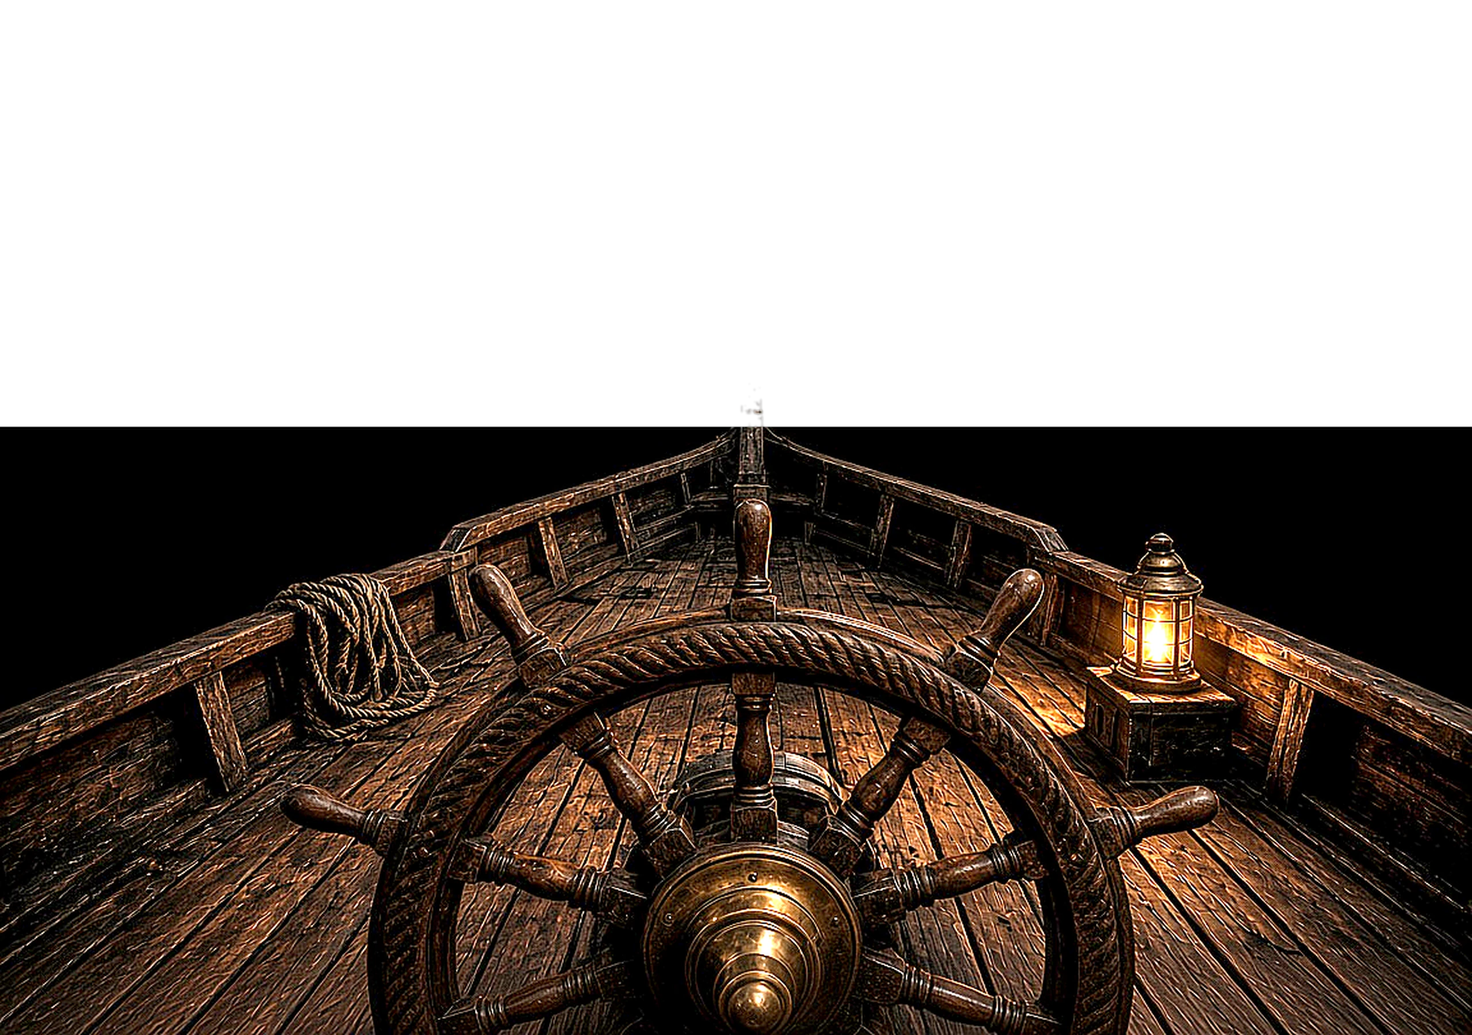
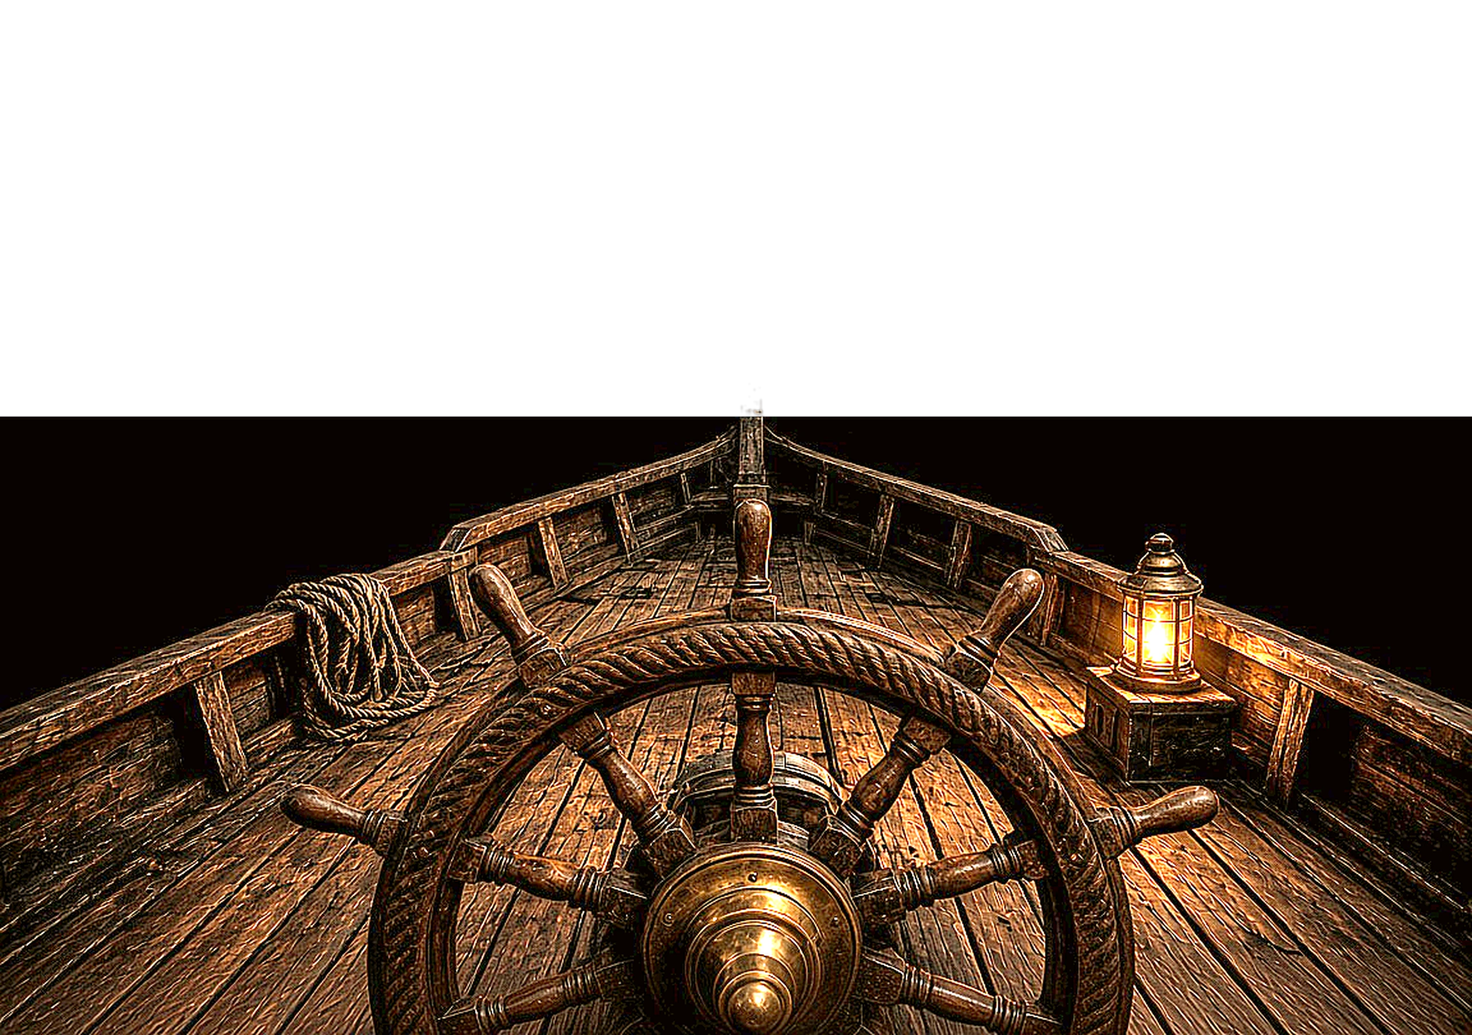
Ship: brighten helm plate so timber reads over ocean
Dark PotC wood was vanishing into the night water on desktop. Lift
midtones, enlarge/scale the plate higher in frame. Cache-bust ?v=helmplate2.

Changed region(s): [[0.0, 0.3733, 1.0, 1.0]]

diff --git a/projects.html b/projects.html
@@ -13,5 +13,5 @@
 <div class="grid"><article class="proj glass feat" data-cat="Education"><a class="shot" href="https://inteloasis.com" target="_blank" rel="noopener" tabindex="-1"><img src="assets/shots/inteloasis.webp" alt="Screenshot of IntelOasis" loading="lazy" width="720" height="450"></a><div class="pb"><div class="ph2"><h3>IntelOasis</h3><span class="tag">Education</span></div><p><strong>Every problem has a thousand solutions. IntelOasis is where Charles keeps them.</strong> It is a living library of ideas, books, software, clubs, and traditions, and it is the roof over everything else here. <strong>It holds the vision. The products below put it into practice.</strong></p><ul class="stack"><li>React</li><li>Vite</li><li>Tailwind</li></ul><div class="links"><a class="btn" href="https://inteloasis.com" target="_blank" rel="noopener">Visit ↗</a><a class="btn ghost" href="https://github.com/charlesanthonyleone/intel-oasis" target="_blank" rel="noopener">GitHub ↗</a></div></div></article><article class="proj glass feat" data-cat="Games"><a class="shot" href="https://scavengia.com" target="_blank" rel="noopener" tabindex="-1"><img src="assets/shots/scavengia.webp" alt="Screenshot of Scavengia" loading="lazy" width="720" height="450"></a><div class="pb"><div class="ph2"><h3>Scavengia</h3><span class="tag">Games</span></div><p><strong>Scavengia is an AI-powered index of everything, and people build it by exploring the world.</strong> Players go out, open caches, and pay to explore. Each discovery adds real places, objects, images, lore, and rarity to a shared map of the planet. <strong>When everything has been found, the AI keeps digging.</strong> It surfaces the precedent: the history and the earlier finds behind each place. <strong>It connects people on opposite sides of the world</strong> through the same hunt. <strong>Ride-alongs fix two problems at once.</strong> Someone who is driving and can&#x27;t play takes along someone who can play but can&#x27;t move. The driver moves the game forward and the remote player gets to explore. <strong>Nobody is left out of the hunt.</strong></p><ul class="stack"><li>TypeScript</li><li>Capacitor Android</li></ul><div class="links"><a class="btn" href="https://scavengia.com" target="_blank" rel="noopener">Visit ↗</a></div></div></article><article class="proj glass feat" data-cat="Civic"><a class="shot" href="https://recordoflaw.com" target="_blank" rel="noopener" tabindex="-1"><img src="assets/shots/recordoflaw.webp" alt="Screenshot of RecordOfLaw" loading="lazy" width="720" height="450"></a><div class="pb"><div class="ph2"><h3>RecordOfLaw</h3><span class="tag">Civic/Politics</span></div><p><strong>Who made the law, when, and how.</strong> RecordOfLaw records offices, officeholders, and legal changes. <strong>Every entry is dated, sourced, and cross-linked.</strong> It starts with FDR and the New Deal, and the build checks its data before it compiles. <strong>The 2026 Midterm Tracker is live.</strong></p><ul class="stack"><li>Python pipeline</li><li>Vite + TS</li></ul><div class="links"><a class="btn" href="https://recordoflaw.com" target="_blank" rel="noopener">Visit ↗</a><a class="btn ghost" href="https://recordoflaw.com/midterms/" target="_blank" rel="noopener">2026 Midterm Tracker ↗</a></div></div></article><article class="proj glass" data-cat="Education"><a class="shot" href="https://leoneuniversity.org" target="_blank" rel="noopener" tabindex="-1"><img src="assets/shots/leone-university.webp" alt="Screenshot of Leone University" loading="lazy" width="720" height="450"></a><div class="pb"><div class="ph2"><h3>Leone University</h3><span class="tag">Education</span></div><p><strong>A think tank where ideas are kept as records.</strong> It started as a prototype on the Base44 AI app builder. <strong>Charles rebuilt it as a standalone React app</strong> that deploys automatically through GitHub Actions.</p><ul class="stack"><li>Vite</li><li>React</li></ul><div class="links"><a class="btn" href="https://leoneuniversity.org" target="_blank" rel="noopener">Visit ↗</a><a class="btn ghost" href="https://github.com/charlesanthonyleone/leone-university" target="_blank" rel="noopener">GitHub ↗</a></div></div></article><article class="proj glass" data-cat="Education"><a class="shot" href="https://library.leoneuniversity.org" target="_blank" rel="noopener" tabindex="-1"><img src="assets/shots/leone-library.webp" alt="Screenshot of Leone Library" loading="lazy" width="720" height="450"></a><div class="pb"><div class="ph2"><h3>Leone Library</h3><span class="tag">Education</span></div><p><strong>Read, translate, remix, and publish the public-domain classics.</strong> Its catalogue is fed by ingestion pipelines from Project Gutenberg and LibriVox. <strong>It&#x27;s a free library meant to be built on.</strong></p><ul class="stack"><li>TypeScript</li></ul><div class="links"><a class="btn" href="https://library.leoneuniversity.org" target="_blank" rel="noopener">Visit ↗</a><a class="btn ghost" href="https://github.com/charlesanthonyleone/leonelibrary" target="_blank" rel="noopener">GitHub ↗</a></div></div></article><article class="proj glass" data-cat="Community"><a class="shot" href="https://charlesanthonyleone.github.io/leoneguard-stats/" target="_blank" rel="noopener" tabindex="-1"><img src="assets/shots/leoneguard-stats.webp" alt="Screenshot of LeoneGuard" loading="lazy" width="720" height="450"></a><div class="pb"><div class="ph2"><h3>LeoneGuard</h3><span class="tag">Community</span></div><p><strong>Moderation that can tell venting from attacking.</strong> At its core is DramaScreen, a low-cost harassment detector that ignores banter and acts on targeted personal attacks. <strong>The public stats page shows only totals, with no names and no messages.</strong></p><ul class="stack"><li>TypeScript</li><li>Docker</li><li>Postgres</li><li>Redis</li><li>Local LLM</li></ul><div class="links"><a class="btn" href="https://charlesanthonyleone.github.io/leoneguard-stats/" target="_blank" rel="noopener">Visit ↗</a><a class="btn ghost" href="https://charlesanthonyleone.github.io/leoneguard-stats/" target="_blank" rel="noopener">Public stats ↗</a></div></div></article><article class="proj glass" data-cat="Community"><a class="shot" href="https://xatmarket.com" target="_blank" rel="noopener" tabindex="-1"><img src="assets/shots/xatmarket.webp" alt="Screenshot of XatMarket" loading="lazy" width="720" height="450"></a><div class="pb"><div class="ph2"><h3>XatMarket</h3><span class="tag">Community</span></div><p><strong>Services, staff, and ideas for xat communities.</strong> XatMarket is the home base for the xat chat community, and <strong>WarMap and XatCast launch from it.</strong></p><ul class="stack"><li>JavaScript</li></ul><div class="links"><a class="btn" href="https://xatmarket.com" target="_blank" rel="noopener">Visit ↗</a></div></div></article><article class="proj glass" data-cat="Community"><a class="shot" href="https://tv.xatmarket.com" target="_blank" rel="noopener" tabindex="-1"><img src="assets/shots/xatcast.webp" alt="Screenshot of XatCast" loading="lazy" width="720" height="450"></a><div class="pb"><div class="ph2"><h3>XatCast</h3><span class="tag">Community</span></div><p><strong>A broadcast network that airs only work the public is free to use.</strong> It runs always-on stations (XatArt, XatWar, XatSports, XatMusic) fed from the Met, the Art Institute of Chicago, Wikimedia Commons, and the Internet Archive. <strong>The license and attribution are recorded for every item.</strong> A shared broadcast clock means <strong>every viewer sees the same thing at the same second.</strong></p><ul class="stack"><li>TypeScript</li><li>Live</li></ul><div class="links"><a class="btn" href="https://tv.xatmarket.com" target="_blank" rel="noopener">Visit ↗</a></div></div></article><article class="proj glass" data-cat="Civic"><a class="shot" href="https://maps.xatmarket.com" target="_blank" rel="noopener" tabindex="-1"><img src="assets/shots/xatmaps.webp" alt="Screenshot of XatMaps · WarMap" loading="lazy" width="720" height="450"></a><div class="pb"><div class="ph2"><h3>XatMaps · WarMap</h3><span class="tag">Civic/Politics</span></div><p><strong>A live 3D night globe of world conflict. Free, open source, with no accounts, no paywall, and no tracking.</strong> It combines UCDP, GDELT (labeled &quot;auto-coded, unverified&quot;), NASA FIRMS heat detections, and Wikipedia control maps. <strong>Every event shows its source and a confidence label.</strong> It also has a daily brief, RSS feeds, and an embed mode.</p><ul class="stack"><li>3D globe</li><li>Open data</li></ul><div class="links"><a class="btn" href="https://maps.xatmarket.com" target="_blank" rel="noopener">Visit ↗</a></div></div></article><article class="proj glass" data-cat="Games"><a class="shot" href="https://blesshalo.com" target="_blank" rel="noopener" tabindex="-1"><img src="assets/shots/blesshalo.webp" alt="Screenshot of BlessHalo" loading="lazy" width="720" height="450"></a><div class="pb"><div class="ph2"><h3>BlessHalo</h3><span class="tag">Games</span></div><p><strong>UNSC : Bless is a private military Halo company, run like a real organization.</strong> It has houses, a charter, insignia, roles and medals, a Pro-Am series, mentorship, a Cadet Track, and a field manual. <strong>It&#x27;s a structure for leading a community.</strong></p><ul class="stack"></ul><div class="links"><a class="btn" href="https://blesshalo.com" target="_blank" rel="noopener">Visit ↗</a></div></div></article><article class="proj glass" data-cat="Games"><div class="shot ph"><span>Private · no public page</span></div><div class="pb"><div class="ph2"><h3>WoW AzerothCore server + xat in-game UI</h3><span class="tag">Games</span></div><p>A World of Warcraft 3.3.5 private server on AzerothCore, with a custom FrameXML Lua UI and native DLL proxy hooks (d3d9, dinput8, MinHook) that bring xat chat into the game client. The server also runs a local Qwen2.5-3B model. In progress.</p><ul class="stack"><li>C/C++</li><li>Lua</li><li>MySQL</li><li>Local LLM</li></ul><div class="links"></div></div></article><article class="proj glass" data-cat="Community"><a class="shot" href="https://lowdro.com" target="_blank" rel="noopener" tabindex="-1"><img src="assets/shots/lowdro.webp" alt="Screenshot of LowDro" loading="lazy" width="720" height="450"></a><div class="pb"><div class="ph2"><h3>LowDro</h3><span class="tag">Community</span></div><p><strong>A members-only, age-gated (21+) storefront for hemp-derived products, plus the security tool that protects it.</strong> Charles built lowdro-ir alongside the store. It is an incident-response analyzer that reads Supabase, Cloudflare, and Nginx logs and flags brute-force attempts, table enumeration, and misuse of privileged keys. <strong>He secures what he ships.</strong></p><ul class="stack"><li>Vite SPA</li><li>21+ age-gated</li></ul><div class="links"><a class="btn" href="https://lowdro.com" target="_blank" rel="noopener">Visit ↗</a></div></div></article><article class="proj glass" data-cat="Tools/AI"><a class="shot" href="https://charlesanthonyleone.github.io/tapback/" target="_blank" rel="noopener" tabindex="-1"><img src="assets/shots/tapback.webp" alt="Screenshot of Tapback" loading="lazy" width="720" height="450"></a><div class="pb"><div class="ph2"><h3>Tapback</h3><span class="tag">Tools/AI</span></div><p>“Your tap gets a comeback.” A sharp marketing site for a product idea — static multi-page, Python-built, shipped to GitHub Pages.</p><ul class="stack"><li>Static</li><li>Python build</li></ul><div class="links"><a class="btn" href="https://charlesanthonyleone.github.io/tapback/" target="_blank" rel="noopener">Visit ↗</a></div></div></article><article class="proj glass" data-cat="Tools/AI"><a class="shot" href="https://charlesanthonyleone.github.io/remote-robotics/" target="_blank" rel="noopener" tabindex="-1"><img src="assets/shots/remote-robotics.webp" alt="Screenshot of Remote Robotics" loading="lazy" width="720" height="450"></a><div class="pb"><div class="ph2"><h3>Remote Robotics</h3><span class="tag">Tools/AI</span></div><p>Concept site for human-supervised robotics R&amp;D — framing the problem of keeping a person in the loop when machines act at a distance.</p><ul class="stack"><li>Static</li></ul><div class="links"><a class="btn" href="https://charlesanthonyleone.github.io/remote-robotics/" target="_blank" rel="noopener">Visit ↗</a></div></div></article></div></section><footer class="foot"><p>© 2026 Charles Leone · <a href="https://github.com/charlesanthonyleone">github.com/charlesanthonyleone</a></p><p class="credit">Milky Way: <a href="https://www.eso.org/public/images/eso0932a/" rel="noopener">ESO/S. Brunier</a>, CC BY 4.0 · Moon: <a href="https://commons.wikimedia.org/wiki/File:FullMoon2010.jpg" rel="noopener">Gregory H. Revera</a>, CC BY-SA 3.0 · Ship: coherent photoreal helm plate + scene sky/ocean</p></footer></main>
 <div class="scene-set"><div id="scene-panel" class="scene-panel glass" role="dialog" aria-label="Scene settings" hidden><label><input type="checkbox" id="set-ocean"> Ocean animation</label><label><input type="checkbox" id="set-sky"> Star &amp; sky animation</label><label><input type="checkbox" id="set-rock"> Ship rocking &amp; lantern</label><p>Off shows a still frame. Defaults follow your system's reduced-motion setting.</p></div>
 <button id="gear" class="scene-gear glass" aria-expanded="false" aria-label="Scene settings" title="Scene settings"><svg viewBox="0 0 24 24" width="18" height="18" aria-hidden="true"><path fill="currentColor" d="M19.4 13a7.5 7.5 0 0 0 0-2l2-1.6-2-3.4-2.4 1a7 7 0 0 0-1.7-1L15 3.5h-4l-.4 2.5a7 7 0 0 0-1.7 1l-2.4-1-2 3.4L6.6 11a7.5 7.5 0 0 0 0 2l-2 1.6 2 3.4 2.4-1a7 7 0 0 0 1.7 1l.4 2.5h4l.4-2.5a7 7 0 0 0 1.7-1l2.4 1 2-3.4zM13 15.5a3.5 3.5 0 1 1 0-7 3.5 3.5 0 0 1 0 7z" transform="translate(-1 0)"/></svg></button></div>
-<script src="assets/scene.js" defer></script><script src="assets/ship.js?v=helmplate1b" defer></script><script src="assets/pages.js" defer></script>
+<script src="assets/scene.js" defer></script><script src="assets/ship.js?v=helmplate2" defer></script><script src="assets/pages.js" defer></script>
 </body></html>

diff --git a/index.html b/index.html
@@ -13,5 +13,5 @@
 <section class="doors"><a class="door glass" href="story.html"><span class="eyebrow">The log</span><b>My Story</b><span>In my own words — 12 min read</span></a><a class="door glass" href="projects.html"><span class="eyebrow">The work</span><b>Projects</b><span>14 things built and live</span></a></section><section class="featured"><div class="sec-h"><h2 class="sh">Flagship</h2><a class="hint" href="projects.html">All 14 projects →</a></div><div class="grid"><article class="proj glass feat" data-cat="Education"><a class="shot" href="https://inteloasis.com" target="_blank" rel="noopener" tabindex="-1"><img src="assets/shots/inteloasis.webp" alt="Screenshot of IntelOasis" loading="lazy" width="720" height="450"></a><div class="pb"><div class="ph2"><h3>IntelOasis</h3><span class="tag">Education</span></div><p><strong>Every problem has a thousand solutions. IntelOasis is where Charles keeps them.</strong> It is a living library of ideas, books, software, clubs, and traditions, and it is the roof over everything else here. <strong>It holds the vision. The products below put it into practice.</strong></p><ul class="stack"><li>React</li><li>Vite</li><li>Tailwind</li></ul><div class="links"><a class="btn" href="https://inteloasis.com" target="_blank" rel="noopener">Visit ↗</a><a class="btn ghost" href="https://github.com/charlesanthonyleone/intel-oasis" target="_blank" rel="noopener">GitHub ↗</a></div></div></article><article class="proj glass feat" data-cat="Games"><a class="shot" href="https://scavengia.com" target="_blank" rel="noopener" tabindex="-1"><img src="assets/shots/scavengia.webp" alt="Screenshot of Scavengia" loading="lazy" width="720" height="450"></a><div class="pb"><div class="ph2"><h3>Scavengia</h3><span class="tag">Games</span></div><p><strong>Scavengia is an AI-powered index of everything, and people build it by exploring the world.</strong> Players go out, open caches, and pay to explore. Each discovery adds real places, objects, images, lore, and rarity to a shared map of the planet. <strong>When everything has been found, the AI keeps digging.</strong> It surfaces the precedent: the history and the earlier finds behind each place. <strong>It connects people on opposite sides of the world</strong> through the same hunt. <strong>Ride-alongs fix two problems at once.</strong> Someone who is driving and can&#x27;t play takes along someone who can play but can&#x27;t move. The driver moves the game forward and the remote player gets to explore. <strong>Nobody is left out of the hunt.</strong></p><ul class="stack"><li>TypeScript</li><li>Capacitor Android</li></ul><div class="links"><a class="btn" href="https://scavengia.com" target="_blank" rel="noopener">Visit ↗</a></div></div></article><article class="proj glass feat" data-cat="Civic"><a class="shot" href="https://recordoflaw.com" target="_blank" rel="noopener" tabindex="-1"><img src="assets/shots/recordoflaw.webp" alt="Screenshot of RecordOfLaw" loading="lazy" width="720" height="450"></a><div class="pb"><div class="ph2"><h3>RecordOfLaw</h3><span class="tag">Civic/Politics</span></div><p><strong>Who made the law, when, and how.</strong> RecordOfLaw records offices, officeholders, and legal changes. <strong>Every entry is dated, sourced, and cross-linked.</strong> It starts with FDR and the New Deal, and the build checks its data before it compiles. <strong>The 2026 Midterm Tracker is live.</strong></p><ul class="stack"><li>Python pipeline</li><li>Vite + TS</li></ul><div class="links"><a class="btn" href="https://recordoflaw.com" target="_blank" rel="noopener">Visit ↗</a><a class="btn ghost" href="https://recordoflaw.com/midterms/" target="_blank" rel="noopener">2026 Midterm Tracker ↗</a></div></div></article></div></section><footer class="foot"><p>© 2026 Charles Leone · <a href="https://github.com/charlesanthonyleone">github.com/charlesanthonyleone</a></p><p class="credit">Milky Way: <a href="https://www.eso.org/public/images/eso0932a/" rel="noopener">ESO/S. Brunier</a>, CC BY 4.0 · Moon: <a href="https://commons.wikimedia.org/wiki/File:FullMoon2010.jpg" rel="noopener">Gregory H. Revera</a>, CC BY-SA 3.0 · Ship: coherent photoreal helm plate + scene sky/ocean</p></footer></main>
 <div class="scene-set"><div id="scene-panel" class="scene-panel glass" role="dialog" aria-label="Scene settings" hidden><label><input type="checkbox" id="set-ocean"> Ocean animation</label><label><input type="checkbox" id="set-sky"> Star &amp; sky animation</label><label><input type="checkbox" id="set-rock"> Ship rocking &amp; lantern</label><p>Off shows a still frame. Defaults follow your system's reduced-motion setting.</p></div>
 <button id="gear" class="scene-gear glass" aria-expanded="false" aria-label="Scene settings" title="Scene settings"><svg viewBox="0 0 24 24" width="18" height="18" aria-hidden="true"><path fill="currentColor" d="M19.4 13a7.5 7.5 0 0 0 0-2l2-1.6-2-3.4-2.4 1a7 7 0 0 0-1.7-1L15 3.5h-4l-.4 2.5a7 7 0 0 0-1.7 1l-2.4-1-2 3.4L6.6 11a7.5 7.5 0 0 0 0 2l-2 1.6 2 3.4 2.4-1a7 7 0 0 0 1.7 1l.4 2.5h4l.4-2.5a7 7 0 0 0 1.7-1l2.4 1 2-3.4zM13 15.5a3.5 3.5 0 1 1 0-7 3.5 3.5 0 0 1 0 7z" transform="translate(-1 0)"/></svg></button></div>
-<script src="assets/scene.js" defer></script><script src="assets/ship.js?v=helmplate1b" defer></script><script src="assets/pages.js" defer></script>
+<script src="assets/scene.js" defer></script><script src="assets/ship.js?v=helmplate2" defer></script><script src="assets/pages.js" defer></script>
 </body></html>

diff --git a/story.html b/story.html
@@ -38,5 +38,5 @@ November 5, 2026</pre>
 </section></div><footer class="foot"><p>© 2026 Charles Leone · <a href="https://github.com/charlesanthonyleone">github.com/charlesanthonyleone</a></p><p class="credit">Milky Way: <a href="https://www.eso.org/public/images/eso0932a/" rel="noopener">ESO/S. Brunier</a>, CC BY 4.0 · Moon: <a href="https://commons.wikimedia.org/wiki/File:FullMoon2010.jpg" rel="noopener">Gregory H. Revera</a>, CC BY-SA 3.0 · Ship: coherent photoreal helm plate + scene sky/ocean</p></footer></main>
 <div class="scene-set"><div id="scene-panel" class="scene-panel glass" role="dialog" aria-label="Scene settings" hidden><label><input type="checkbox" id="set-ocean"> Ocean animation</label><label><input type="checkbox" id="set-sky"> Star &amp; sky animation</label><label><input type="checkbox" id="set-rock"> Ship rocking &amp; lantern</label><p>Off shows a still frame. Defaults follow your system's reduced-motion setting.</p></div>
 <button id="gear" class="scene-gear glass" aria-expanded="false" aria-label="Scene settings" title="Scene settings"><svg viewBox="0 0 24 24" width="18" height="18" aria-hidden="true"><path fill="currentColor" d="M19.4 13a7.5 7.5 0 0 0 0-2l2-1.6-2-3.4-2.4 1a7 7 0 0 0-1.7-1L15 3.5h-4l-.4 2.5a7 7 0 0 0-1.7 1l-2.4-1-2 3.4L6.6 11a7.5 7.5 0 0 0 0 2l-2 1.6 2 3.4 2.4-1a7 7 0 0 0 1.7 1l.4 2.5h4l.4-2.5a7 7 0 0 0 1.7-1l2.4 1 2-3.4zM13 15.5a3.5 3.5 0 1 1 0-7 3.5 3.5 0 0 1 0 7z" transform="translate(-1 0)"/></svg></button></div>
-<script src="assets/scene.js" defer></script><script src="assets/ship.js?v=helmplate1b" defer></script><script src="assets/pages.js" defer></script>
+<script src="assets/scene.js" defer></script><script src="assets/ship.js?v=helmplate2" defer></script><script src="assets/pages.js" defer></script>
 </body></html>

diff --git a/assets/ship.js b/assets/ship.js
@@ -55,7 +55,7 @@ gl_FragColor=vec4(col,max(a,halo));}`));
   }
 
   const CFG={
-    d:{src:'assets/sky/deck.webp',W:2560,H:1800,hx:.748,hy:.552,lh:.065,px:.72,py:.70,ax:.5,dy:.16},
+    d:{src:'assets/sky/deck.webp',W:2560,H:1800,hx:.748,hy:.552,lh:.065,px:.72,py:.70,ax:.5,dy:.20},
     m:{src:'assets/sky/deck-m.webp',W:1328,H:1440,hx:.805,hy:.542,lh:.07,px:.76,py:.76,ax:.5,dy:.22}
   };
   let c,iw,ih,lw,lhh,DPR=Math.min(devicePixelRatio||1,2);
@@ -66,7 +66,7 @@ gl_FragColor=vec4(col,max(a,halo));}`));
     const want = c.src;
     // Always set via attribute so empty-src → documentURL doesn't confuse us
     if(deck.getAttribute('src')!==want) deck.setAttribute('src', want);
-    const s=Math.max(w/c.W, h/(c.H*0.70))*1.10;
+    const s=Math.max(w/c.W, h/(c.H*0.62))*1.14;
     iw=c.W*s; ih=c.H*s;
     const x=(w-iw)*c.ax, y=h-ih+ih*c.dy;
     ship.style.cssText = `position:fixed;z-index:2;pointer-events:none;transform-origin:50% 100%;width:${iw}px;height:${ih}px;left:${x}px;top:${y}px;`;

diff --git a/debug-fit.html b/debug-fit.html
@@ -1,0 +1,13 @@
+<!doctype html><meta charset=utf-8>
+<style>
+body{margin:0;background:#061018}
+.ship{position:fixed;z-index:2;pointer-events:none;transform-origin:50% 100%}
+.lglow,.lpool{position:absolute;width:calc(var(--r)*2);height:calc(var(--r)*2);margin:calc(var(--r)*-1) 0 0 calc(var(--r)*-1);border-radius:50%;mix-blend-mode:screen}
+.lglow{background:radial-gradient(circle,rgba(255,200,120,.4),transparent 70%)}
+.lpool{height:calc(var(--r)*.8);margin-top:calc(var(--r)*-.4);background:radial-gradient(closest-side,rgba(255,170,80,.3),transparent)}
+</style>
+<div class="scene"></div>
+<canvas id="scene-top"></canvas>
+<div class="ship" id="ship"><img id="deck" src="" alt=""><div class="lpool" id="lpool"></div><div class="lglow" id="lglow"></div><div class="lantern" id="lantern"><canvas id="flame"></canvas></div></div>
+<label style="position:fixed;z-index:9;color:#fff"><input type="checkbox" id="set-rock" checked>rock</label>
+<script src="assets/ship.js?v=dbg3"></script>

diff --git a/src/build.py b/src/build.py
@@ -18,7 +18,7 @@ def page(fn,title,cls,body,extra=''):
 <nav class="nav glass"><a href="index.html" class="brand">Charles Leone</a><span>{nav}</span></nav>
 <main class="wrap">{body}{foot}</main>
 {gear}
-<script src="assets/scene.js" defer></script><script src="assets/ship.js?v=helmplate1b" defer></script><script src="assets/pages.js" defer></script>
+<script src="assets/scene.js" defer></script><script src="assets/ship.js?v=helmplate2" defer></script><script src="assets/pages.js" defer></script>
 </body></html>''')
 feat='<section class="featured"><div class="sec-h"><h2 class="sh">Flagship</h2><a class="hint" href="projects.html">All 14 projects →</a></div><div class="grid">'+''.join(arts[:3])+'</div></section>'
 links='<section class="doors"><a class="door glass" href="story.html"><span class="eyebrow">The log</span><b>My Story</b><span>In my own words — 12 min read</span></a><a class="door glass" href="projects.html"><span class="eyebrow">The work</span><b>Projects</b><span>14 things built and live</span></a></section>'
